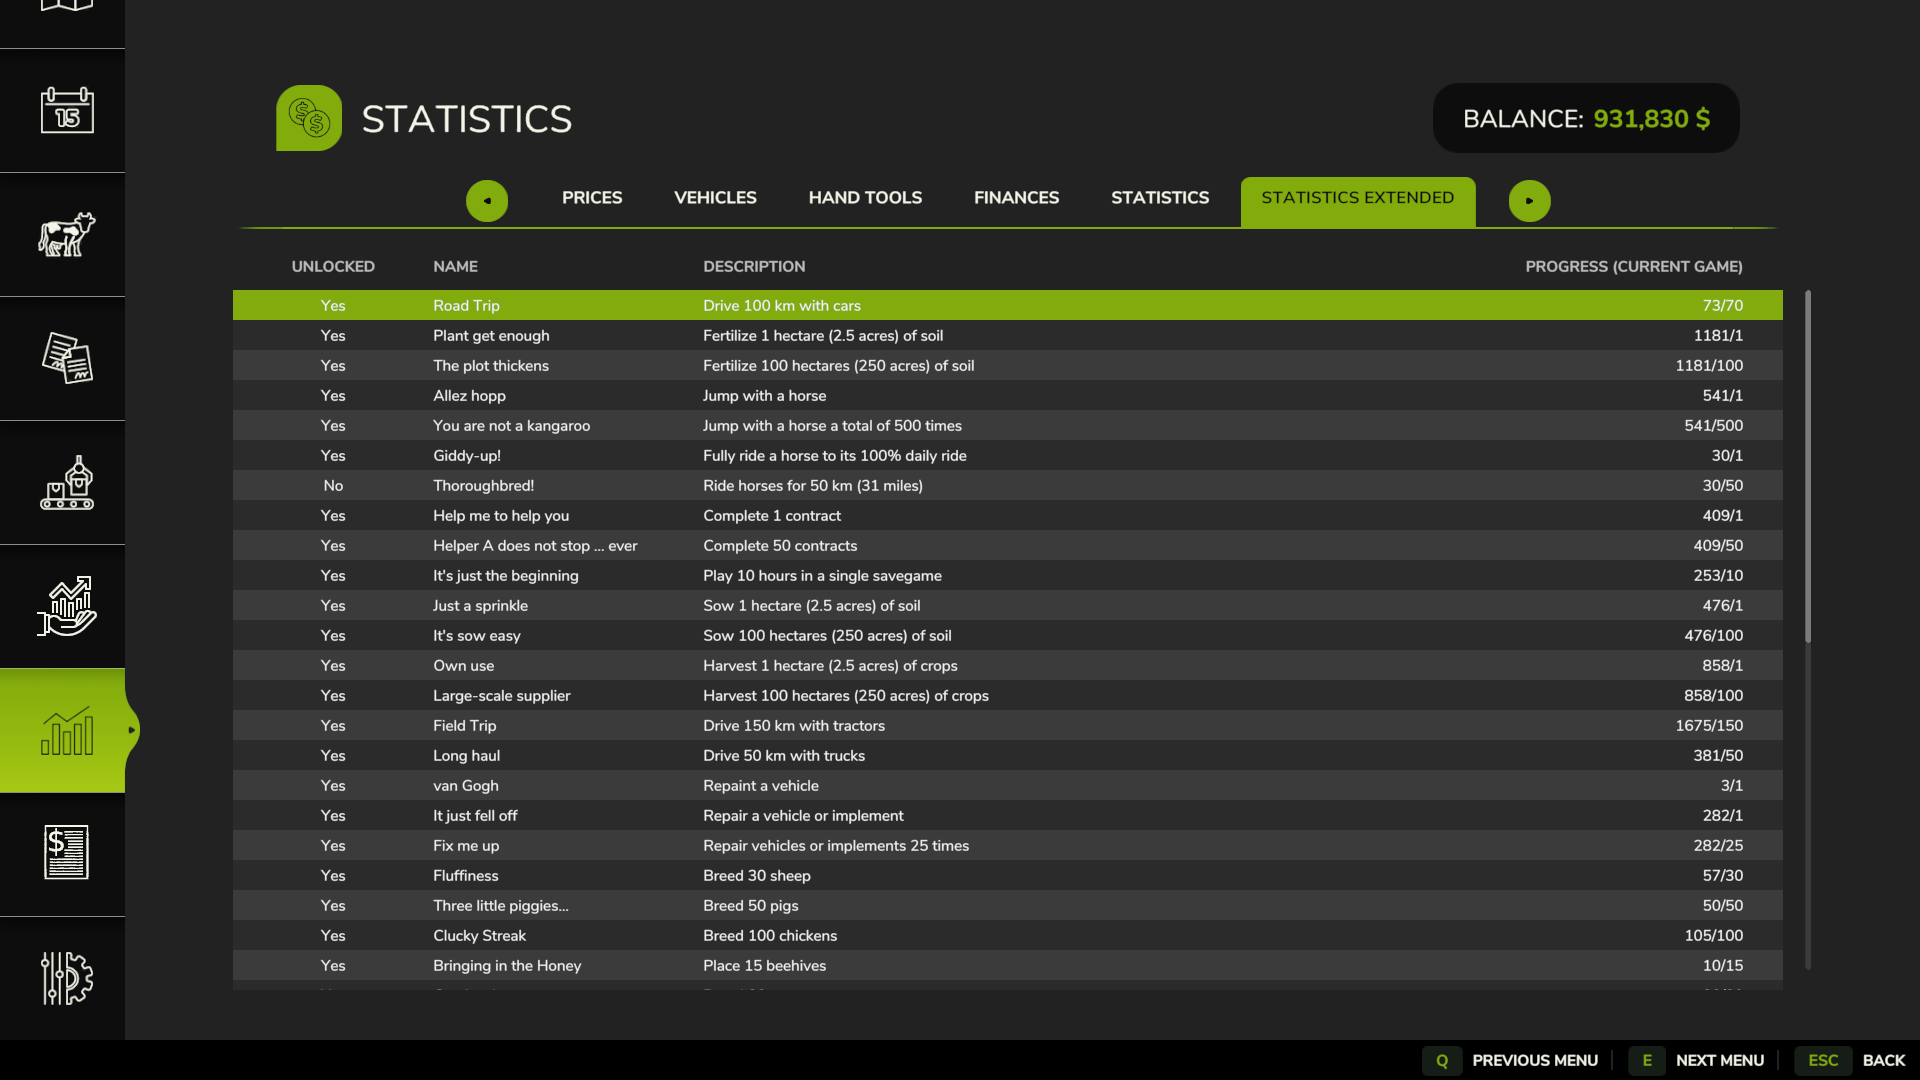
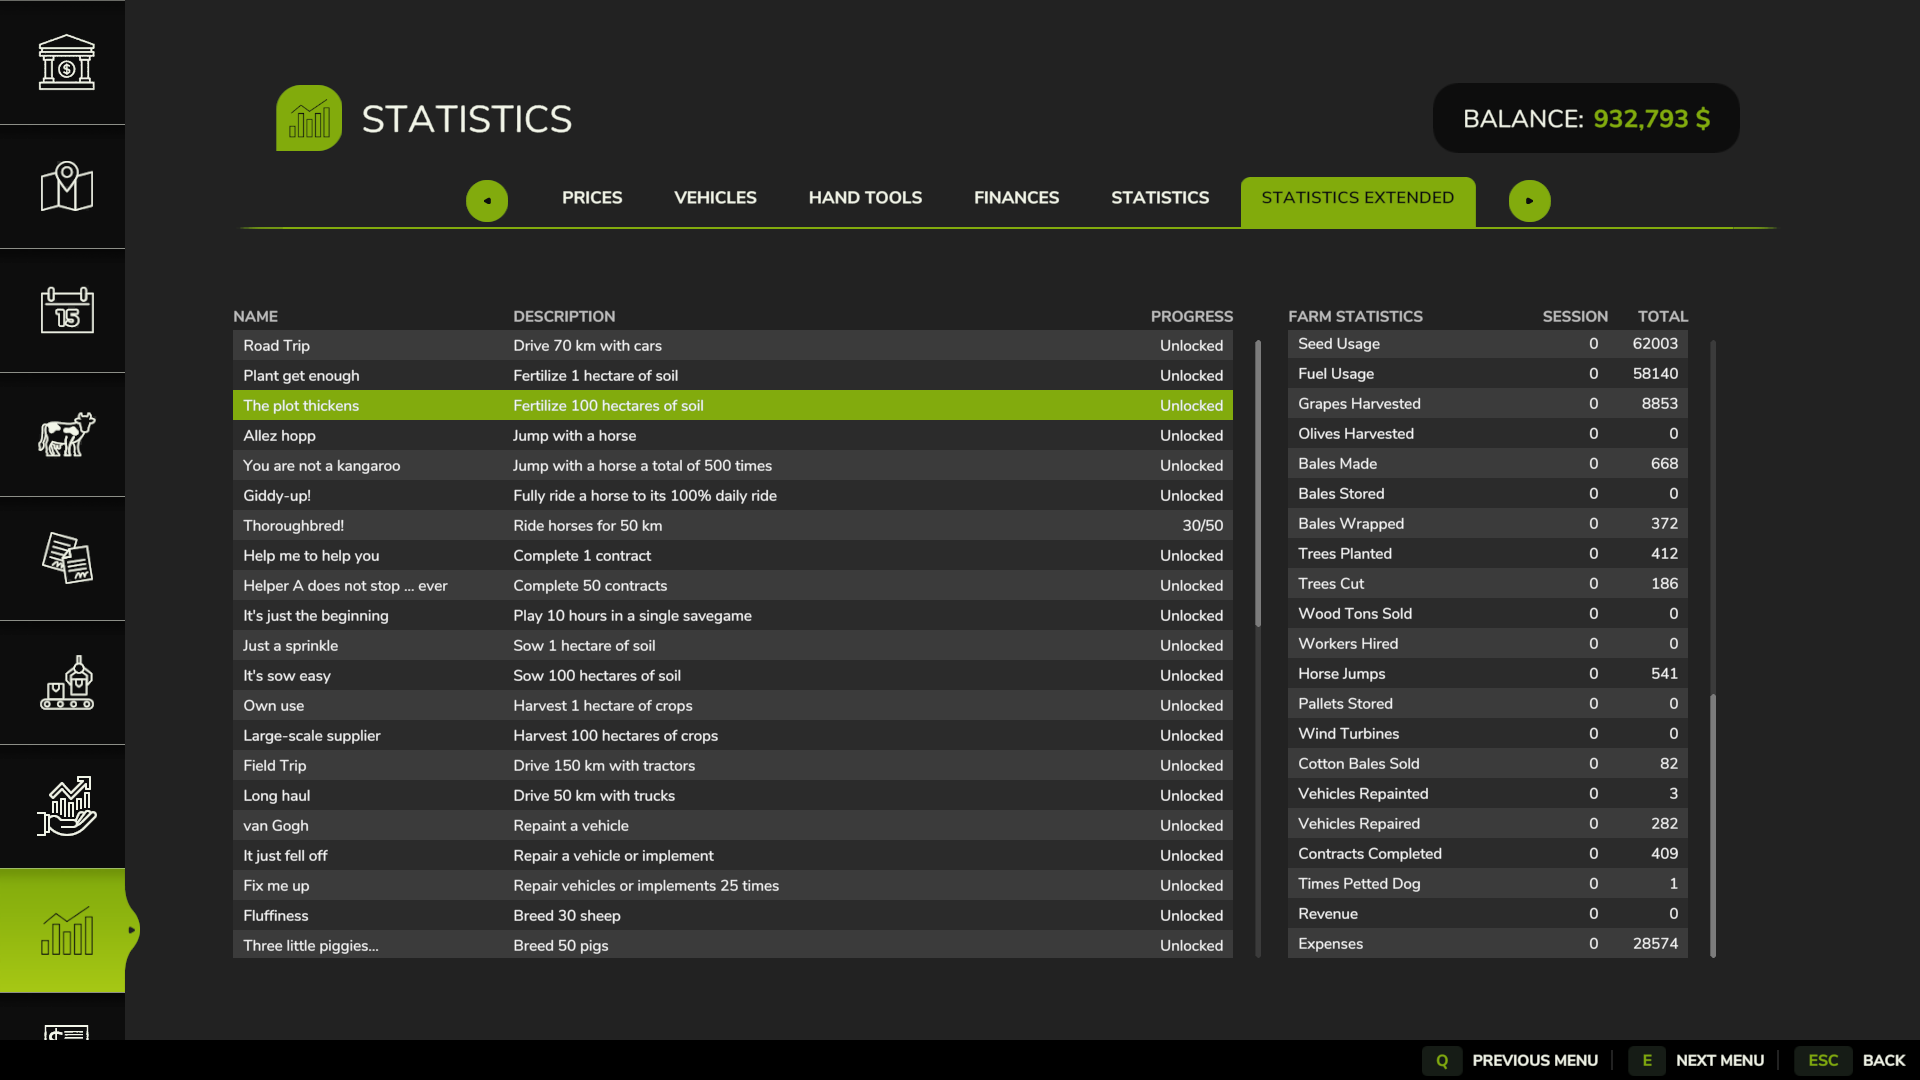
Feat (#3) add additional farm stats section

diff --git a/README.md b/README.md
@@ -1,16 +1,22 @@
 # :trophy: SE - Farming Simulator 25 Stats Extended
-SE adds a new tab to the in-game Statistics screen that displays all achievements with their name, description, current progress, and unlock status for the active savegame.
+SE adds a new tab to the in-game Statistics screen that displays all achievements and farm statistics for the active savegame.
 
 ![screenshot 1](https://github.com/EvanKirsch/fs25-stats-extended/blob/master/screenshots/screenshot-1.png)
 
 ## :spiral_notepad: Implementation Details
-Adds a new "Statistics Extended" tab into the existing statistics menu. The tab displays all achievements registered with `g_achievementManager`.
+Adds a new "Statistics Extended" tab into the existing statistics menu. The tab is split into two sections.
 
-Progress columns shown per achievement:
-- **Unlocked** : Whether the achievement has been unlocked for the user
+### Achievements List
 - **Name** : The achievement's display name
-- **Description** : A plain-language description of what I believe to be the unlock condition 
-- **Progress (Current Game)** : Current progress toward the target. This is modeled based on research from the `g_achievementManager`. 
+- **Description** : A description of what I _believe_ to be the unlock condition
+- **Progress** : Current progress toward the target. Shows "Unlocked" once the achievement is earned
+Displays all achievements registered with `g_achievementManager`.
+
+### Farm Statistics List
+- **Statistic** : Display name of the statistic
+- **Session** : The value accumulated in the current play session
+- **Total** : The all-time total for the savegame
+Displays raw farm stats from the active save, covers breeding counts, distances traveled, field area worked, time spent on tasks, resource usage, harvests, bales, wood, and more. Some of these are duplicated from the existing "Statistics" tab
 
 ## :gear: Manual Install Instructions
 1. Download `FS25_statsExtended.zip` from the latest release on the [releases page](https://github.com/EvanKirsch/fs25-stats-extended/releases)